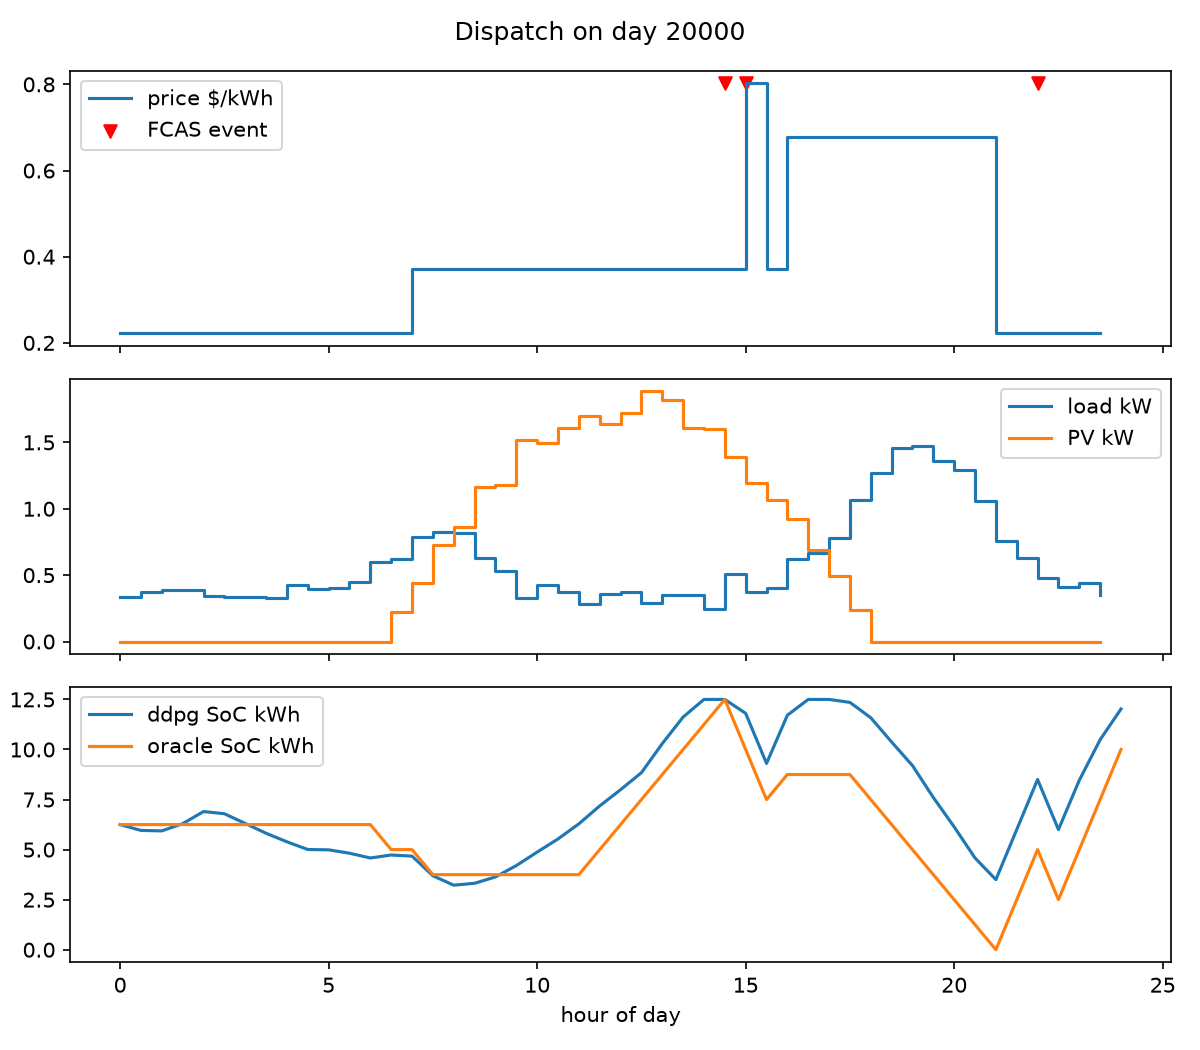
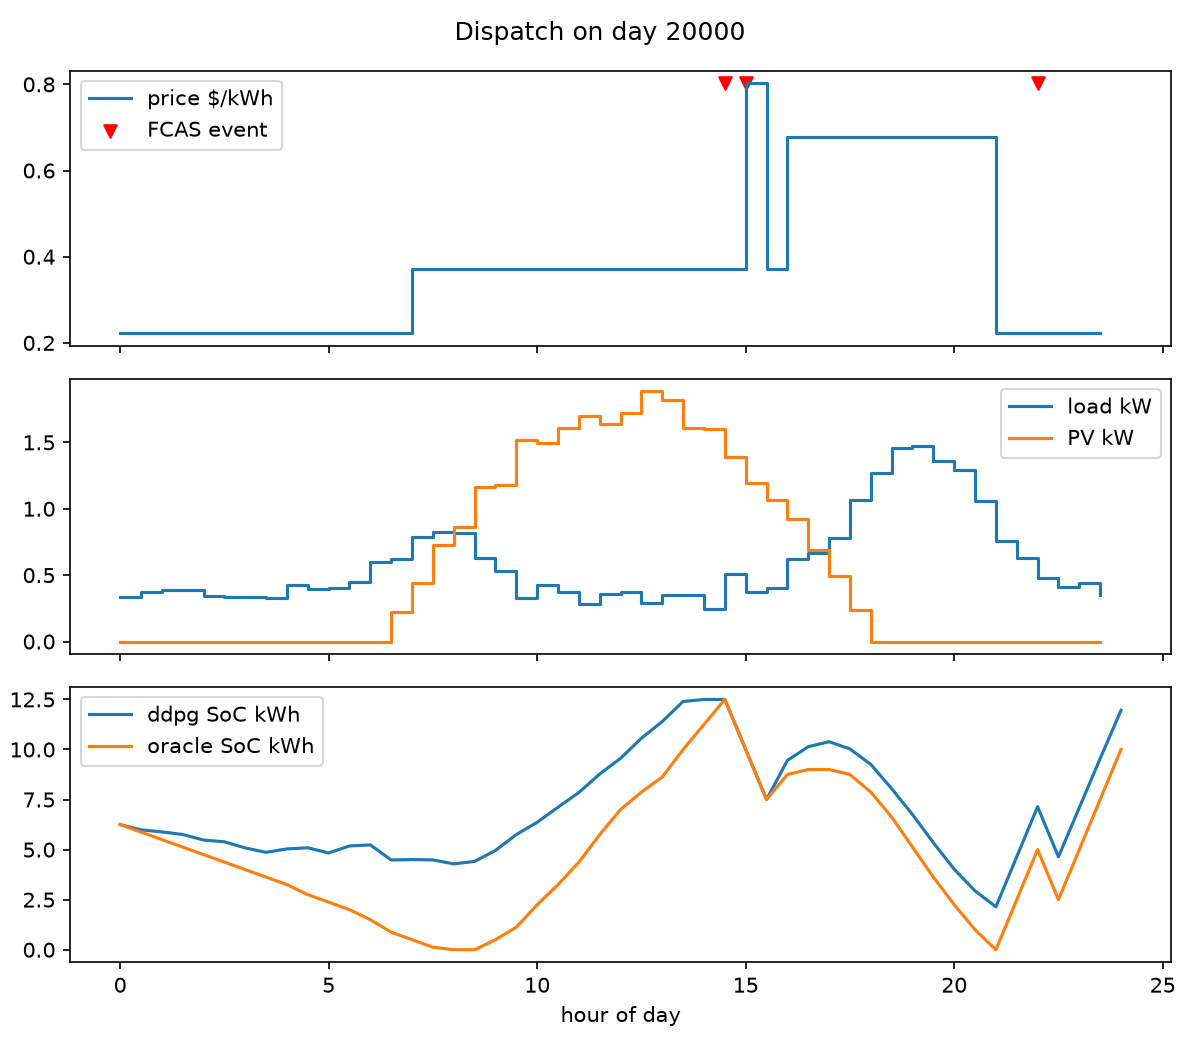
Copy weights when snapshotting a policy
state_dict() tensors alias the live parameters, so the in-memory snapshot
of the previous checkpoint drifted with training and the Connect Four
agent was scored against its current self (always 50%). The resume test
caught it: a resumed run used a real copy from disk and disagreed.

diff --git a/src/dr/agents/common.py b/src/dr/agents/common.py
@@ -173,8 +173,13 @@ class BaseAgent:
         return float(np.mean(self.recent)) if self.recent else float("nan")
 
     def policy_state_dict(self):
-        """Network weights only; enough to act, small enough to commit."""
-        return {n: getattr(self, n).state_dict() for n in self.nets}
+        """Copies of the network weights only; enough to act, small enough to commit.
+
+        Copies, because `state_dict()` tensors alias the live parameters and a snapshot kept in memory
+        would otherwise change as training continues.
+        """
+        return {n: {k: v.detach().cpu().clone() for k, v in getattr(self, n).state_dict().items()}
+                for n in self.nets}
 
     def load_policy_state_dict(self, s):
         for n in self.nets:
